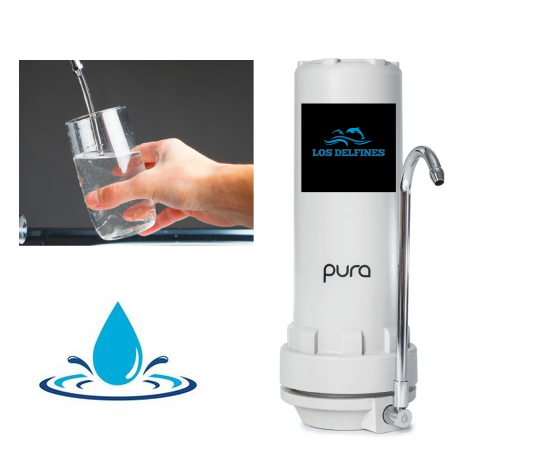
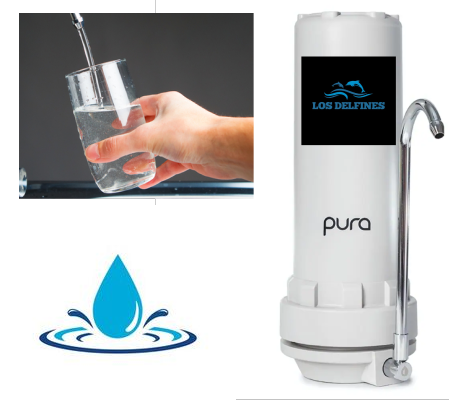
"se centraron todo los elementos"

diff --git a/AcercadeNosotros.html b/AcercadeNosotros.html
@@ -72,50 +72,50 @@
         de contaminación plástica.
     </div>
     <div class="articulo2">
-        <img src="./img/Fotoizquierda.png" alt="Foto agua" id="Fotoizquierda">  
+        <img src="./img/Fotoizquierda.png" alt="Foto agua" class="Fotoizquierda"/>  
     </div>
     <!-- MIEMBROS EQUIPO -->
     <h1 class="tituloEquipo">MIEMBROS DEL EQUIPO DE DESARROLLO</h1>
     <div class="columna1">
-        <div class="card mb-3" style="max-width: 540px;">
+        <div class="card mb-3">
             <div class="row g-0">
-                <div class="col-md-4">
+                <div class="col-md-4 text-center">
                     <img src="img/imagenSaid.png" class="img-fluid rounded-start" alt="...">
                 </div>
                 <div class="col-md-8">
                     <div class="card-body">
                         <h5 class="card-title">Said Arturo Gama Ponce</h5>
-                        <p class="card-text">Scrum Master
-                            Estudiante de Ingenieria en desarrollo de Software y Desarollador Java Full Stack,
+                        <p class="card-text">Scrum Master<br>
+                            Estudiante de Ingeniería en desarrollo de Software y Desarrollador Java Full Stack,
                             apasionado por las computadoras y la industria TI.</p>
                     </div>
                 </div>
             </div>
         </div>
-        <div class="card mb-3" style="max-width: 540px;">
-            <div class="row g-0">
-                <div class="col-md-4">
+        <div class="card mb-3" >
+            <div class="row g-0 ">
+                <div class="col-md-4 text-center">
                     <img src="./img/ariadnaislas.png" class="img-fluid rounded-start" alt="Ariadna Islas">
                 </div>
                 <div class="col-md-8">
                     <div class="card-body">
                         <h5 class="card-title"> Ariadna Jazmín Islas García</h5>
-                        <p class="card-text">Miembro de Scrum team.
+                        <p class="card-text">Scrum team<br>
                             Desarrolladora Java FullStack, egresada de Generation México y Licenciada en
                             Sociología, apasionada por el análisis de datos y la programación.</p>
                     </div>
                 </div>
             </div>
         </div>
-        <div class="card mb-3" style="max-width: 540px;">
+        <div class="card mb-3">
             <div class="row g-0">
-                <div class="col-md-4">
+                <div class="col-md-4 text-center">
                     <img src="./img/foto manuel.jpg" class="img-fluid rounded-start" alt="FotoManuel">
                 </div>
                 <div class="col-md-8">
                     <div class="card-body">
                         <h5 class="card-title">Manuel Antonio Amaya Acosta</h5>
-                        <p class="card-text">Product manager.
+                        <p class="card-text">Product manager<br>
                             Soy Ingeniero Industrial Logístico y Desarrollador Java Full Stack Jr. y me gusta el
                             proceso de la resolución de problemas, amante de la música.</p>
 
@@ -124,48 +124,48 @@
             </div>
         </div>
     </div>
-    <div class="columna2">
-        <div class="card mb-3" style="max-width: 540px;">
+    <div class="columna2 ">
+        <div class="card mb-3">
             <div class="row g-0">
-                <div class="col-md-4">
+                <div class="col-md-4 text-center">
                     <img src="./img/imgjair.png" class="img-fluid rounded-start" alt="JairIbarra">
                 </div>
                 <div class="col-md-8">
                     <div class="card-body">
                         <h5 class="card-title">Angel Jair Ibarra Partida </h5>
-                        <p class="card-text">Desarrollador Java FullStack, egresado
+                        <p class="card-text">Scrum team<br>Desarrollador Java FullStack, egresado
                             de Generation México, apasionado
-                            por la programción, el diseño, el TI y la música.</p>
+                            por la programación, el diseño, el TI y la música.</p>
                     </div>
                 </div>
             </div>
         </div>
-        <div class="card mb-3" style="max-width: 540px;">
+        <div class="card mb-3" >
             <div class="row g-0">
-                <div class="col-md-4">
+                <div class="col-md-4 text-center">
                     <img src="./img/Rectangle 174.png" class="img-fluid rounded-start" alt="foto">
                 </div>
                 <div class="col-md-8">
                     <div class="card-body">
                         <h5 class="card-title">Adriana Jiménez Pérez </h5>
-                        <p class="card-text">Rol Scum team
-                            Desarrolladora Java FullStack, egresada de Generación México, Tecnico en Informatica
-                            apasionada por la progamación.</p>
+                        <p class="card-text">Scrum team<br>
+                            Desarrolladora Java FullStack, egresada de Generación México, Técnico en Informática
+                            apasionada por la programación.</p>
                     </div>
                 </div>
             </div>
         </div>
-        <div class="card mb-3" style="max-width: 540px;">
+        <div class="card mb-3" >
             <div class="row g-0">
-                <div class="col-md-4">
+                <div class="col-md-4 text-center">
                     <img src="./img/MiguelMdO.png" class="img-fluid rounded-start" alt="...">
                 </div>
                 <div class="col-md-8">
                     <div class="card-body">
                         <h5 class="card-title">Miguel Angel Alvarez Montes de Oca</h5>
-                        <p class="card-text">Rol Scrum Team <br>
-                            Estudiante de Ingeneria en Sistemas Computacionales y Desarrollador Java FullStack,
-                            apasionado por el diseño y el desarrollo en la tecnologia.
+                        <p class="card-text">Scrum team<br>
+                            Estudiante de Ingeniería en Sistemas Computacionales y Desarrollador Java FullStack,
+                            apasionado por el diseño y el desarrollo en la tecnología.
                         </p>
                     </div>
                 </div>

diff --git a/css/StyleAcercadeNosotros.css b/css/StyleAcercadeNosotros.css
@@ -72,21 +72,32 @@ html {
 }
 .articulo1 {
     grid-area: articulo1;
+    padding-left: 10%;
+    padding-right: 10%;
 }
 .articulo2 {
     grid-area: articulo2;
+    padding-left: 10%;
+    padding-right: 10%;
 }
 .Fotoizquierda{
-    width: 100%;
+    height: 100%; width: 100%; object-fit: contain;
 }
 .tituloEquipo {
     grid-area: tituloEquipo;
+    padding-left: 5%;
+    padding-bottom: 2%;
+    padding-top: 2%;
 }
 .columna1 {
     grid-area: columna1;
+    padding-left: 10%;
+    padding-right: 10%;
 }
 .columna2 {
     grid-area: columna2;
+    padding-left: 10%;
+    padding-right: 10%;
 }
 .footer1 {
     grid-area: footer1;
@@ -110,13 +121,22 @@ html {
         gap: 0px;
         height: 100%;
     }
+    .columna1 {
+        grid-area: columna1;
+        
+        
+    }
+    .columna2 {
+        grid-area: columna2;
+        
+    }
 }
 /*Escritorio*/
 @media(min-width:900px) {
     .grid-container {
         display: grid;
         grid-template-rows: auto auto auto auto auto auto auto;
-        grid-template-columns: auto auto;
+        grid-template-columns: 50% 50%;
         grid-template-areas:
             'navbar navbar'
             'imagenportada imagenportada'
@@ -127,3 +147,6 @@ html {
             'footer1 footer1';
     }
 }
+
+
+/*ESTILOS DE TEXTO*/
